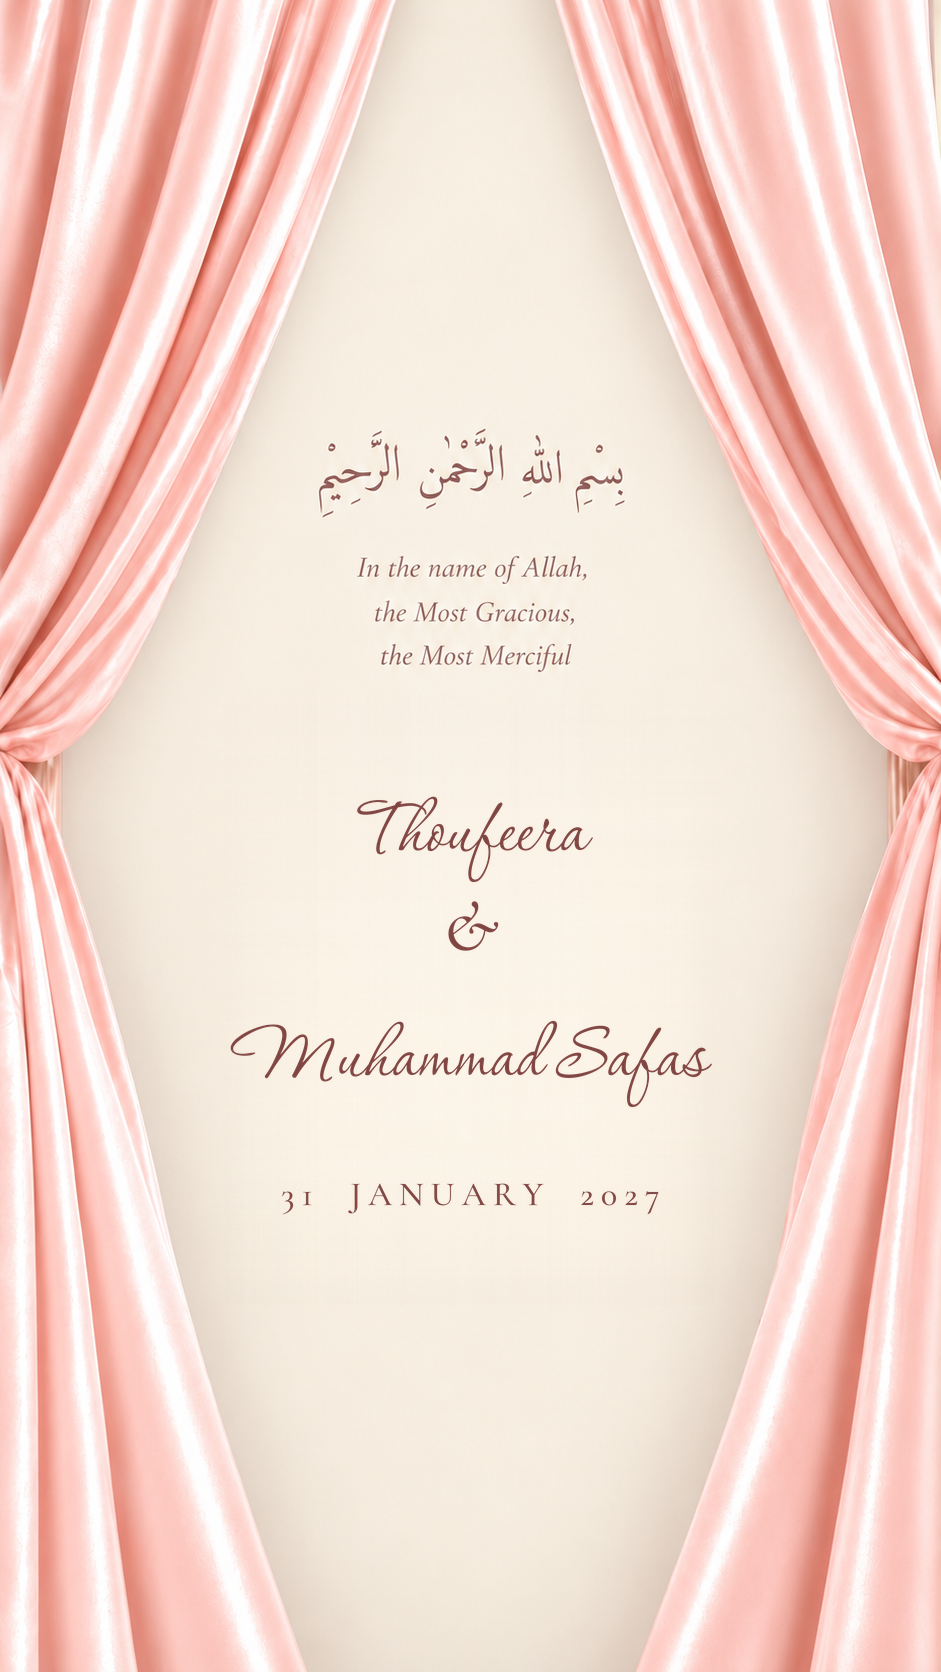
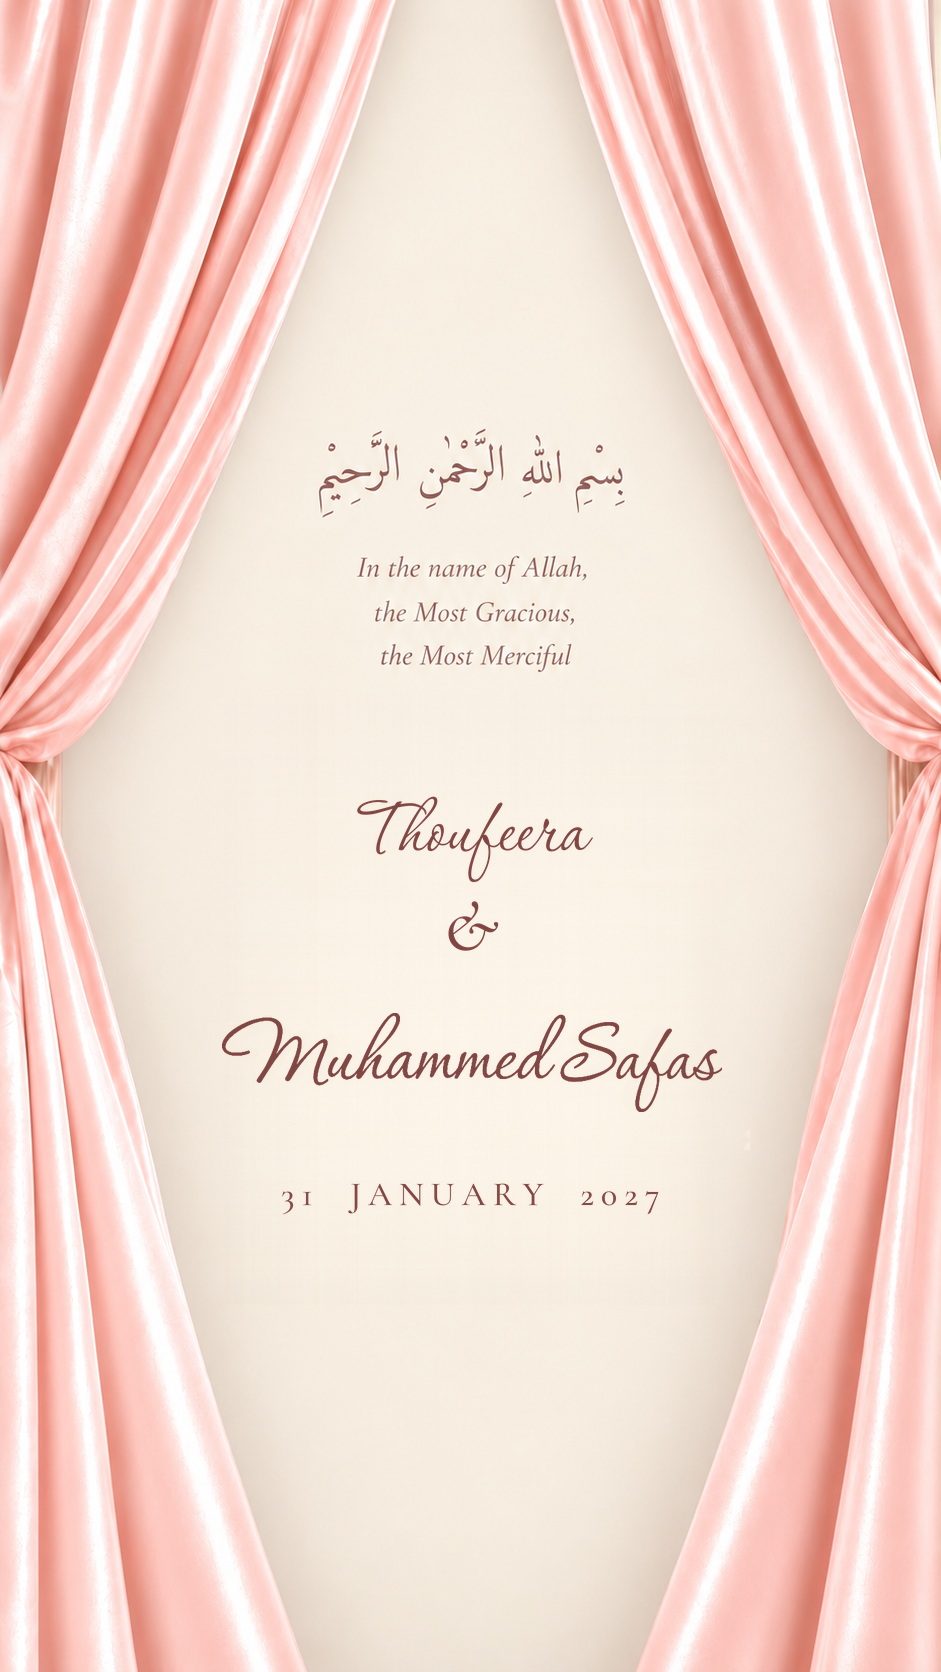
Repush wedding invitation website

Changed region(s): [[0.2465, 0.5909, 0.7705, 0.6842]]

diff --git a/README.md b/README.md
@@ -1,4 +1,4 @@
-# Thoufeera & Muhammad Safas — Wedding Invitation
+# Thoufeera & Muhammed Safas — Wedding Invitation
 
 Plain HTML/CSS/JS static site. Deploy the folder as-is on Vercel, Netlify, GitHub Pages, etc.
 
